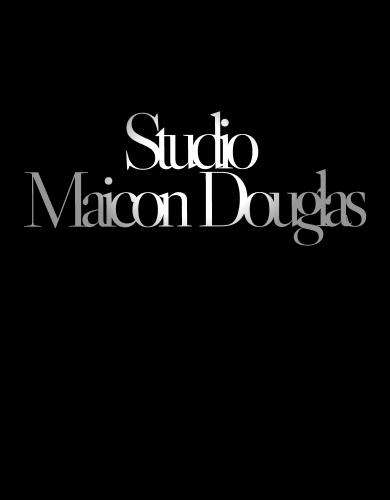
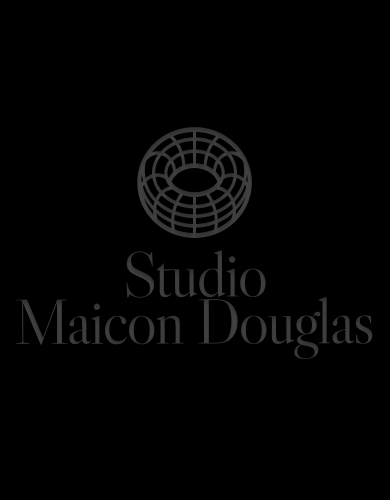
1

diff --git a/Style/style.scss b/Style/style.scss
@@ -367,11 +367,7 @@ header{
 
 
 @media screen and (min-width: 1023px){
-    nav{
-        img{
-            width: 400px;
-        }
-    }
+    
     header{
         background-image:  url(/midia/capaComputador.png);
         background-position: 100% auto;
